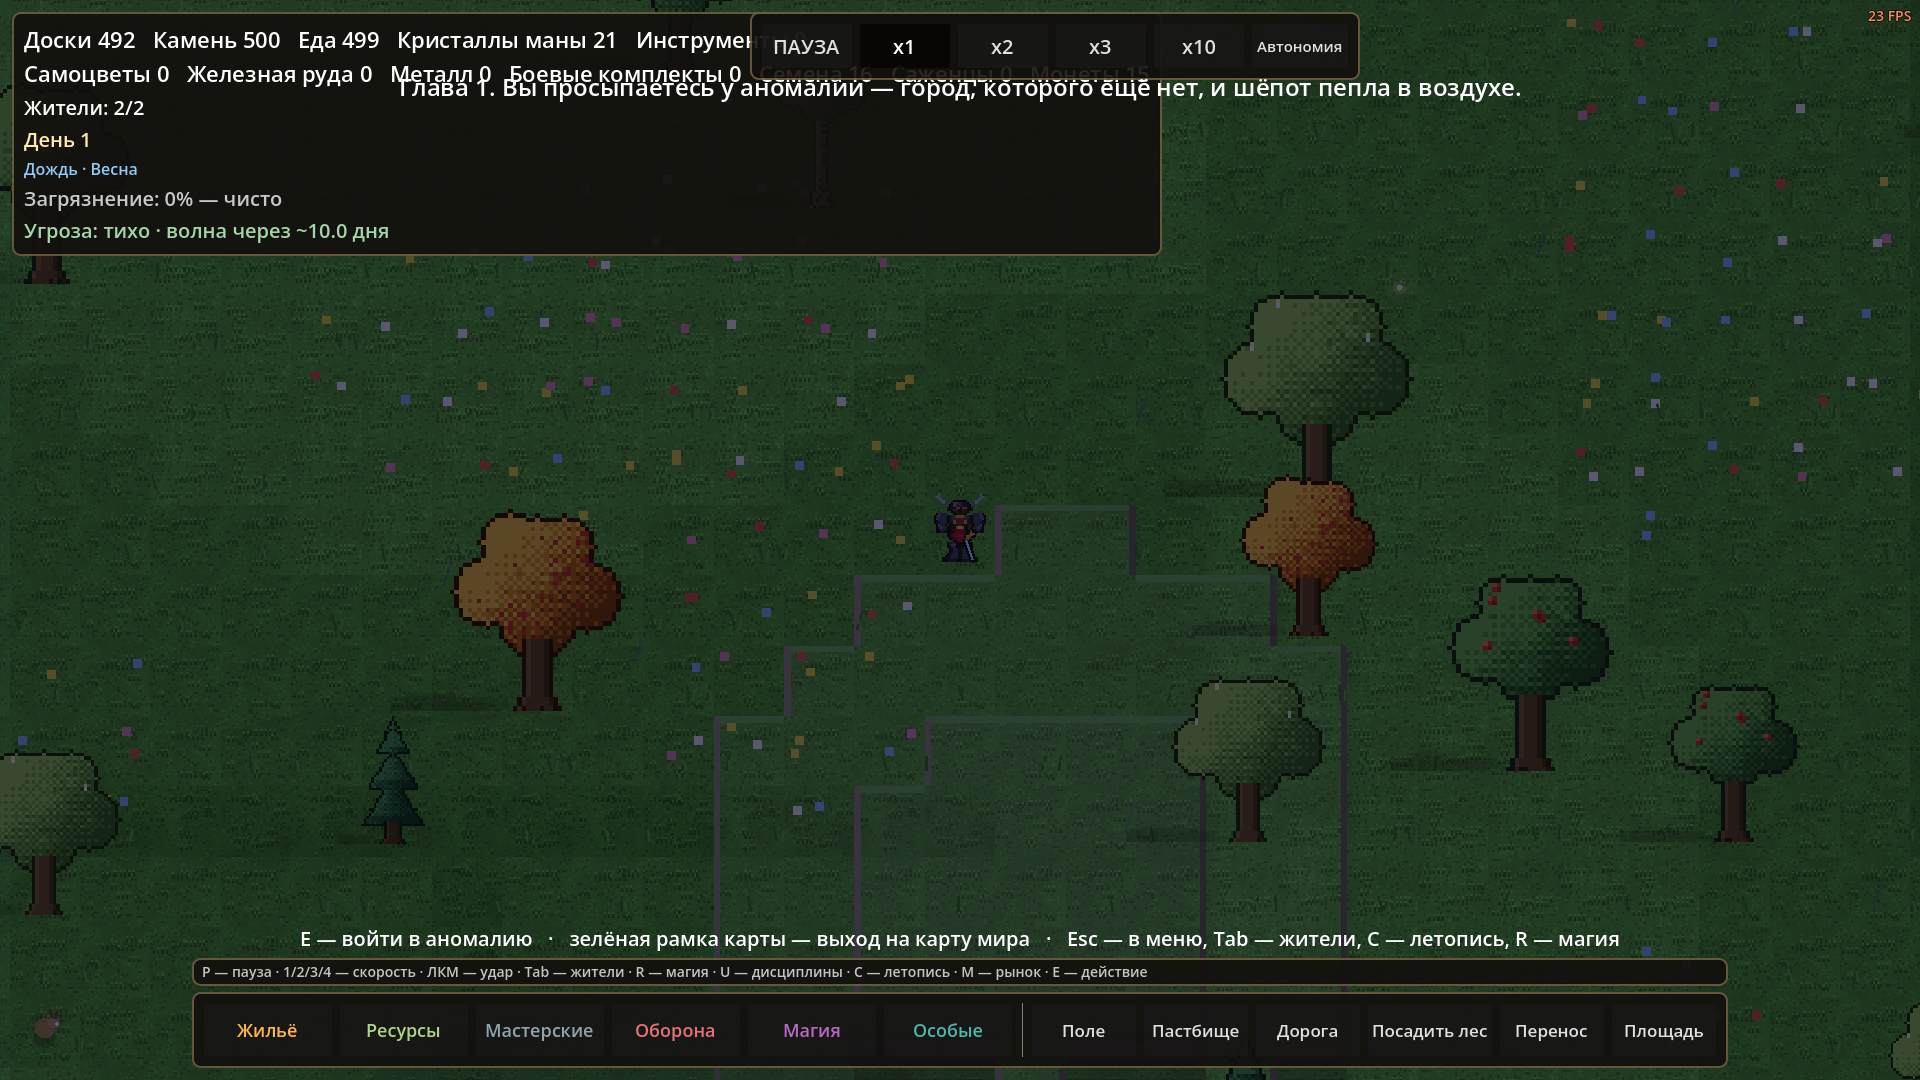
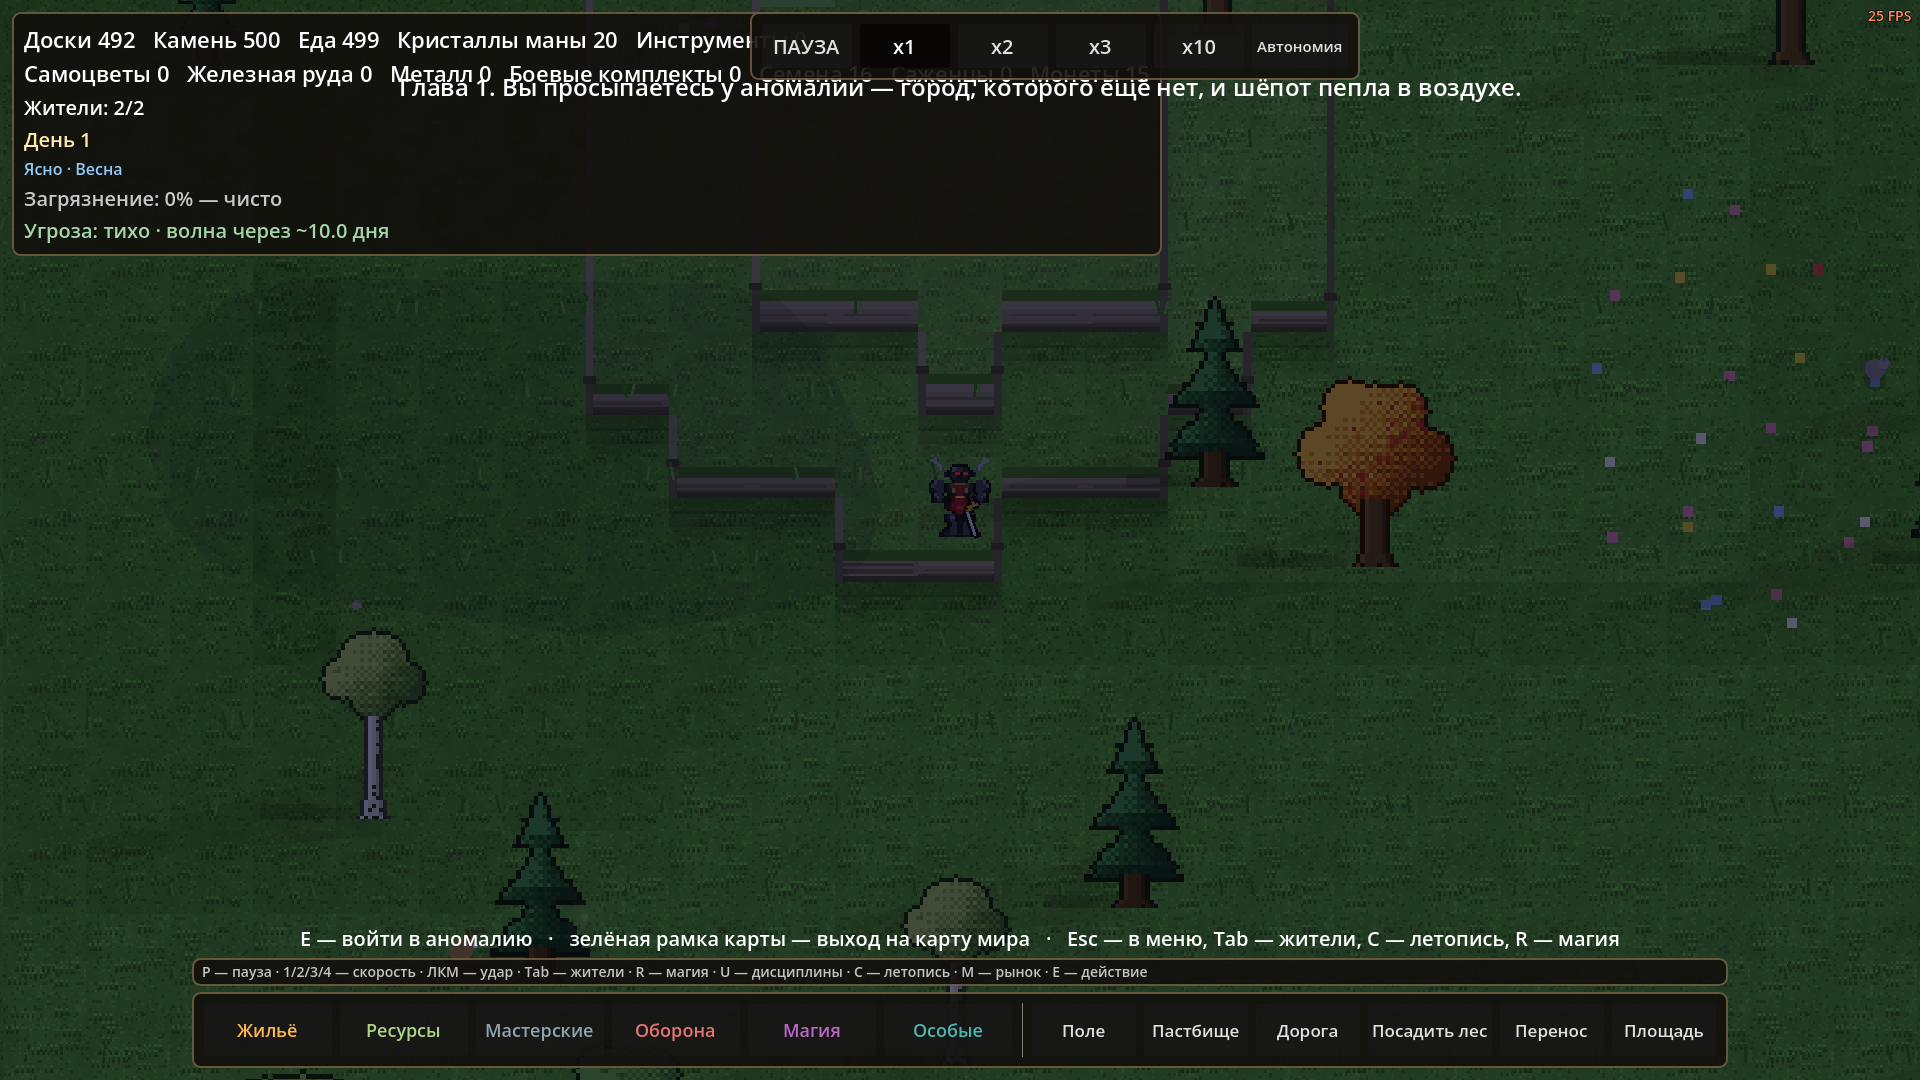
v1.36.1: ощущение подъёма на плато — юниты и статика приподняты, по лестнице высота анимируется
Правка приёмки v1.36.0 («нет ощущения подъёма, проходит словно по
плоской текстуре»):
- юниты на плато стоят выше равнины на уровень×34% тайла (тюнинг
  city.json → plateaus.lift); по лестнице высота ДОЕЗЖАЕТ за lift_time
  (0.3 c на уровень, сглаживание per-unit) — видно движение вверх
- поднимаются: герой, жители (тело/груз/облачко), мутанты (HP-полоса;
  кольцо-метка на земле), звери, скот, торговцы; статика плато —
  деревья/пни/саженцы, здания (по максимуму клеток 2×2), кучи, брёвна,
  останки; Y-сортировка учитывает подъём
- логика не тронута: пути/бой/стройка по прежним тайлам — подъём
  чисто визуальный слой city_view.gd + хелперы карты

Тесты: _test_plateau_lift в tests/test_plateau.gd, полный прогон
зелёный; headless city — 0 SCRIPT ERROR. Скриншот героя НА плато:
tools/shot_plateau.png (SHOT_TOP=1).

Следующий шаг: приёмка правок; затем этап 2 «Глобальная карта v2»
программы «Мир v2» — новый чат.

diff --git a/CHANGELOG_E2.md b/CHANGELOG_E2.md
@@ -1091,3 +1091,34 @@ tools/shot_plateau.gd, tools/shot_plateau.png, README.md.**
 дом на плато, встретить волну мутантов стоя на плато — герой держит удары
 лучше и бьёт сильнее. Следующий шаг: этап 2 «Глобальная карта v2»
 программы «Мир v2» — НОВЫЙ чат.**
+
+## Правки v1.36.1 (2026-10-30, тем же чатом) — ощущение подъёма на плато
+
+Фидбек приёмки v1.36.0: «нет ощущения, когда НПС или герой поднимается
+по рельефу — просто проходит наверх холма словно это плоская текстура».
+
+Сделан **визуальный подъём**: юниты и статика на плато стоят ВЫШЕ равнины
+(плоскость плато приподнята), а по лестнице высота именно ДОЕЗЖАЕТ —
+герой/житель виден в движении вверх, не телепортируется на новую высоту.
+
+- Подъём = уровень × 34% тайла (тюнинг `city.json → plateaus.lift`),
+  анимация — один уровень за `lift_time` (0.3 c), сглаживание per-unit.
+- Поднимаются: герой, жители (тело/груз/облачко), мутанты (тело/полоса
+  HP; кольцо-метка остаётся на «земле»), звери, скот, бродячие торговцы.
+- Статика плато — той же плоскостью: деревья/пни/саженцы, здания
+  (вся коробка; 2×2 на кромке уровней — по максимуму клеток), кучи
+  у зданий, брёвна, останки. Y-сортировка учитывает подъём.
+- Логика не тронута: пути, бой, стройка работают по прежним тайлам —
+  подъём чисто визуальный слой (city_view + хелперы карты).
+
+Тесты: `_test_plateau_lift` (конфиг/величина/время анимации) в
+tests/test_plateau.gd, полный прогон зелёный; headless city — 0 SCRIPT
+ERROR. Скриншоты: tools/shot_plateau.png (герой НА плато у кромки,
+SHOT_TOP=1), анимация проверяется вживую по лестнице.
+
+**Файлы: scripts/city_view.gd, scripts/city_map.gd, data/city.json,
+tests/test_plateau.gd, tests/run_all.gd, tools/shot_plateau.gd,
+tools/shot_plateau.png, data/version.json, README.md.**
+
+**Следующий шаг: приёмка правок; затем этап 2 «Глобальная карта v2»
+программы «Мир v2» — НОВЫЙ чат.**

diff --git a/СЛЕДУЮЩИЙ-ШАГ.md b/СЛЕДУЮЩИЙ-ШАГ.md
@@ -5,6 +5,12 @@
 
 ## Текущий статус (2026-10-30, вечер)
 
+- **Правки v1.36.1 (2026-10-30, тем же чатом) — ощущение подъёма**:
+  юниты и статика на плато стоят выше равнины (34% тайла за уровень),
+  по лестнице высота анимируется — герой/жители именно «поднимаются»,
+  а не проходят по плоской текстуре. Тюнинг: city.json → plateaus.lift
+  и lift_time. На приёмке: пройти по лестнице наверх и вниз.
+
 - **ВЫПОЛНЕНО, НА ПРИЁМКЕ: v1.36.0 — этап «Многоуровневый рельеф»**
   (программа «Рельеф, вода, данжи» этап 2, решения №113–115): холмы
   и плато на карте ГОРОДА — 2–3 плато уровня 1 + террасы уровня 2
@@ -34,8 +40,7 @@
   «Мир v2» целиком — v1.35.0–v1.35.2 (гидрология генерации мира +
   светотеневой рельеф глобала + фикс чёрного моря).
 
-- **Правка v1.36.0 (2026-10-30, новый чат)** — многоуровневый рельеф
-  города (см. выше).
+- **v1.36.0** — многоуровневый рельеф города (см. выше).
 
 - **Правки v1.35.2 (2026-10-30)** — фикс чёрного моря: в выпечке рельефа
   светотень гасила и ЦВЕТ воды; теперь светотень только на суше.
@@ -67,9 +72,9 @@
 
 ## Кратко: что было в последних версиях (детали — CHANGELOG_E2.md)
 
-- **v1.36.0** — многоуровневый рельеф города: плато/террасы по схеме
-  Hills, лестницы-проходы, A* по уровням, оборонный бонус плато,
-  стройка на плато, сейв высот.
+- **v1.36.0–v1.36.1** — многоуровневый рельеф города: плато/террасы
+  по схеме Hills, лестницы-проходы, A* по уровням, оборонный бонус
+  плато, стройка на плато, сейв высот; ощущение подъёма (лифт юнитов).
 - **v1.35.0–v1.35.2** — гидрология мира: высоты → скалы/море/реки/
   озёра/болота, река клетки мира повторяется в городе; светотеневой
   рельеф глобальной карты (без квадратной сетки).

diff --git a/docs/design/10-природа-и-погода.md b/docs/design/10-природа-и-погода.md
@@ -63,6 +63,12 @@
     ступени-лестницы, столбики на углах. Тюнинг:
     `data/city.json → plateaus` и `colors.plateau`.
   - Высоты/лестницы в сейве и загрузке (старые сейвы — равнина).
+  - **Ощущение подъёма (v1.36.1, правка приёмки)**: юниты (герой,
+    жители, мутанты, звери, скот, торговцы) и статика плато (деревья,
+    здания, кучи, брёвна, останки) стоят выше равнины на
+    `plateaus.lift` (34% тайла за уровень), по лестнице высота
+    анимируется за `lift_time` — подъём виден в движении. Чисто
+    визуальный слой (`city_view.gd`), логика по прежним тайлам.
   - Глобальная карта и данжи получат уровни отдельными проходами
     позже (№114 «везде» — поэтапно).
 

diff --git a/README.md b/README.md
@@ -1,4 +1,4 @@
-# Пепел и Мана — v1.36.0
+# Пепел и Мана — v1.36.1
 
 [![Тесты](https://github.com/SDVGames-Studio/pepel-i-mana/actions/workflows/tests.yml/badge.svg)](https://github.com/SDVGames-Studio/pepel-i-mana/actions/workflows/tests.yml)
 
